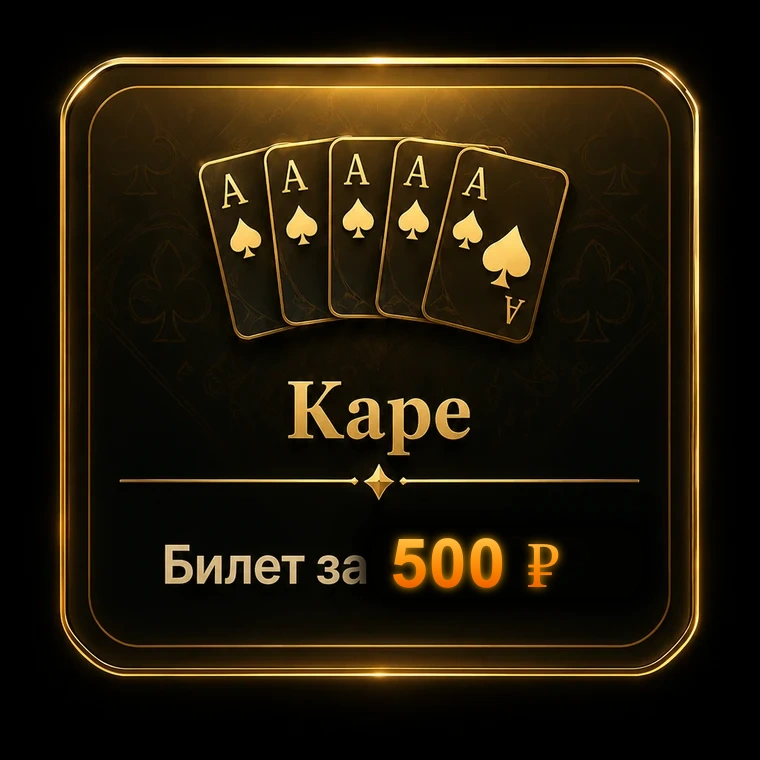
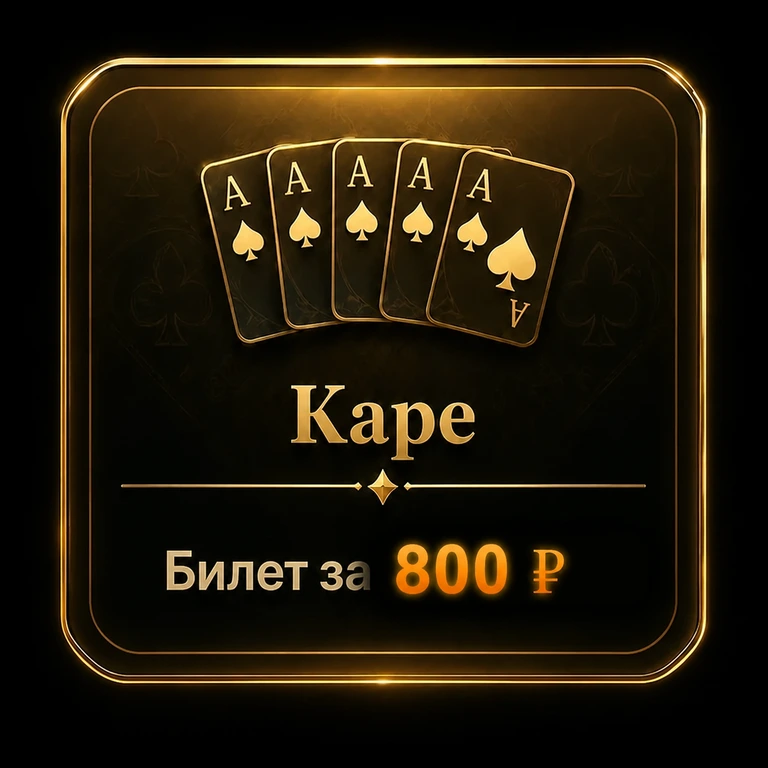
Raise Daily Poker quads prize to 800

diff --git a/index.html b/index.html
@@ -1418,8 +1418,8 @@
                     <li class="daily-poker__prize daily-poker__prize--straight-flush" aria-label="Стрит-флеш, билет за 3 000 рублей">
                       <img class="daily-poker__prize-art" src="./assets/daily-poker-prize-straight-flush.webp?v=3.402" alt="" loading="lazy" decoding="async" aria-hidden="true" />
                     </li>
-                    <li class="daily-poker__prize daily-poker__prize--quads" aria-label="Каре, билет за 500 рублей">
-                      <img class="daily-poker__prize-art" src="./assets/daily-poker-prize-quads.webp?v=3.568" alt="" loading="lazy" decoding="async" aria-hidden="true" />
+                    <li class="daily-poker__prize daily-poker__prize--quads" aria-label="Каре, билет за 800 рублей">
+                      <img class="daily-poker__prize-art" src="./assets/daily-poker-prize-quads.webp?v=3.569" alt="" loading="lazy" decoding="async" aria-hidden="true" />
                     </li>
                     <li class="daily-poker__prize" aria-label="Фулл-хаус, билет за 300 рублей">
                       <img class="daily-poker__prize-art" src="./assets/daily-poker-prize-full-house.webp?v=3.568" alt="" loading="lazy" decoding="async" aria-hidden="true" />

diff --git a/html-fragments/daily-poker.html b/html-fragments/daily-poker.html
@@ -24,8 +24,8 @@
           <li class="daily-poker__prize daily-poker__prize--straight-flush" aria-label="Стрит-флеш, билет за 3 000 рублей">
             <img class="daily-poker__prize-art" src="./assets/daily-poker-prize-straight-flush.webp?v=3.402" alt="" loading="lazy" decoding="async" aria-hidden="true" />
           </li>
-          <li class="daily-poker__prize daily-poker__prize--quads" aria-label="Каре, билет за 500 рублей">
-            <img class="daily-poker__prize-art" src="./assets/daily-poker-prize-quads.webp?v=3.568" alt="" loading="lazy" decoding="async" aria-hidden="true" />
+          <li class="daily-poker__prize daily-poker__prize--quads" aria-label="Каре, билет за 800 рублей">
+            <img class="daily-poker__prize-art" src="./assets/daily-poker-prize-quads.webp?v=3.569" alt="" loading="lazy" decoding="async" aria-hidden="true" />
           </li>
           <li class="daily-poker__prize" aria-label="Фулл-хаус, билет за 300 рублей">
             <img class="daily-poker__prize-art" src="./assets/daily-poker-prize-full-house.webp?v=3.568" alt="" loading="lazy" decoding="async" aria-hidden="true" />

diff --git a/scripts/daily-poker-tests.js b/scripts/daily-poker-tests.js
@@ -159,10 +159,10 @@ function testTicketlessStreak() {
 
 function testRewardsAndLedger() {
   assert.strictEqual(rewardForHandRank("full_house", {}).ticketAmount, 300, "full house ticket 300");
-  assert.strictEqual(rewardForHandRank("four_of_a_kind", {}).ticketAmount, 500, "four of a kind ticket 500");
+  assert.strictEqual(rewardForHandRank("four_of_a_kind", {}).ticketAmount, 800, "four of a kind ticket 800");
   assert.strictEqual(rewardForHandRank("straight_flush", {}).ticketAmount, 3000, "straight flush ticket 3000");
   assert.strictEqual(rewardForHandRank("royal_flush", {}).ticketAmount, 10000, "royal flush ticket 10000");
-  assert.strictEqual(rewardForHandRank("four_of_a_kind", {}).title, "Билет за 500 ₽", "four of a kind ticket title matches prize card");
+  assert.strictEqual(rewardForHandRank("four_of_a_kind", {}).title, "Билет за 800 ₽", "four of a kind ticket title matches prize card");
   assert.strictEqual(rewardForHandRank("straight_flush", {}).bonusAmount, 0, "straight flush is not paid as a flush");
   assert.strictEqual(rewardForHandRank("straight", {}).bonusAmount, 50, "straight is paid like a flush");
   const promo = buildBonusLedgerEntry({

diff --git a/lib/api-handlers/promo.js b/lib/api-handlers/promo.js
@@ -1046,7 +1046,7 @@ function prizeTextForHand(handRank, reward, streakReward) {
     : "";
   if (handRank === "royal_flush") return "Роял-флеш! Джекпот — билет на Нокаут за 10 000 ₽ зачислен на баланс." + streakHint + balanceHint;
   if (handRank === "straight_flush") return "Стрит-флеш! Билет на турнир за 3 000 ₽ из расписания зачислен на баланс." + streakHint + balanceHint;
-  if (handRank === "four_of_a_kind") return "Каре! Билет за 500 ₽ зачислен на баланс." + streakHint + balanceHint;
+  if (handRank === "four_of_a_kind") return "Каре! Билет за 800 ₽ зачислен на баланс." + streakHint + balanceHint;
   if (handRank === "full_house") return "Фулл-хаус! Билет за 300 ₽ зачислен на баланс." + streakHint + balanceHint;
   if (handRank === "flush") {
     return reward && reward.grantsExtraAttempt

diff --git a/lib/daily-poker.js b/lib/daily-poker.js
@@ -254,7 +254,7 @@ function rewardForHandRank(handRank, state) {
     return { type: "ticket", amount: 3000, title: "Билет на турнир за 3 000 ₽", ticketAmount: 3000, bonusAmount: 0, grantsExtraAttempt: false };
   }
   if (rank === "four_of_a_kind") {
-    return { type: "ticket", amount: 500, title: "Билет за 500 ₽", ticketAmount: 500, bonusAmount: 0, grantsExtraAttempt: false };
+    return { type: "ticket", amount: 800, title: "Билет за 800 ₽", ticketAmount: 800, bonusAmount: 0, grantsExtraAttempt: false };
   }
   if (rank === "full_house") {
     return { type: "ticket", amount: 300, title: "Билет за 300 ₽", ticketAmount: 300, bonusAmount: 0, grantsExtraAttempt: false };
